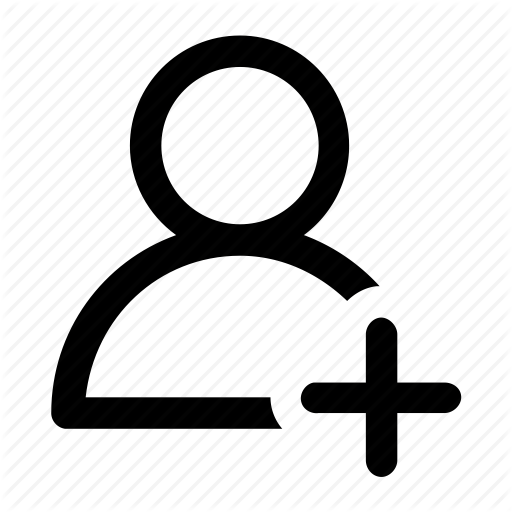
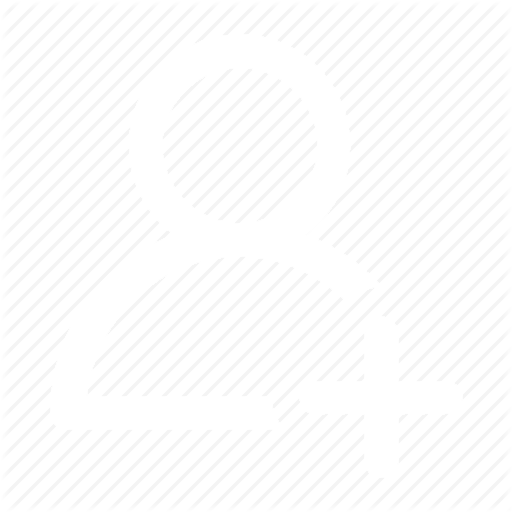
icones brancos

Changed region(s): [[0.0938, 0.0625, 0.75, 0.8438], [0.5625, 0.625, 0.9062, 0.9375]]

diff --git a/src/pages/MenuDape.js b/src/pages/MenuDape.js
@@ -21,13 +21,13 @@ return (
         <View style={styles.colunasMenu}>            
         <TouchableOpacity style={styles.colunasBotao}>
             <TouchableOpacity onPress={() => this.props.navigation.navigate('Formulario400Hz')} style={styles.menuButton} >
-            <Image backgroundColor='white' style={{ width: '50%', height: '50%' }} source={require('../imagens/dape.png')}/>
+            <Image style={{ width: '50%', height: '50%' }} source={require('../imagens/dape.png')}/>
             <Text/>
             <Text style={styles.buttonText}>400 Hz</Text>
             </TouchableOpacity>
 
             <TouchableOpacity onPress={() => this.props.navigation.navigate('FormularioAmbulift')} style={styles.menuButton} >
-            <Image backgroundColor='white' style={{ width: '50%', height: '50%' }} source={require('../imagens/duvida.png')}/>
+            <Image style={{ width: '50%', height: '50%' }} source={require('../imagens/duvida.png')}/>
             <Text/>
             <Text style={styles.buttonText}>Ambulift</Text>                
             </TouchableOpacity>
@@ -36,19 +36,19 @@ return (
         <View style={styles.colunasMenu}>            
         <TouchableOpacity style={styles.colunasBotao}>                
             <TouchableOpacity onPress={() => this.props.navigation.navigate('FormularioTripulanteDesembarque')} style={styles.menuButton} >
-            <Image backgroundColor='white' style={{ width: '50%', height: '50%' }} source={require('../imagens/duvida.png')}/>
+            <Image style={{ width: '50%', height: '50%' }} source={require('../imagens/duvida.png')}/>
             <Text style={styles.buttonText}>Tripulante e/ou Desembarque Híbrido</Text>
             </TouchableOpacity>
             
             <TouchableOpacity onPress={() => this.props.navigation.navigate('FormularioLavagemTecnica')} style={styles.menuButton} >
-            <Image backgroundColor='white' style={{ width: '50%', height: '50%' }} source={require('../imagens/duvida.png')}/>            
+            <Image style={{ width: '50%', height: '50%' }} source={require('../imagens/duvida.png')}/>            
             <Text/>
             <Text style={styles.buttonText}>Lavagem Técnica</Text>                            
             </TouchableOpacity>
         </TouchableOpacity>
         </View>
     </View>
-    <Text style={{color: 'black'}}> Versão 1.0 </Text>
+    <Text style={{color: 'white'}}> Versão 1.0 </Text>
     </View>
     
 );

diff --git a/src/pages/Menu.js b/src/pages/Menu.js
@@ -39,12 +39,12 @@ export default class Menu extends React.Component {
           <View style={styles.colunasMenu}>
             <TouchableOpacity style={styles.colunasBotao}>
               <TouchableOpacity onPress={() => this.props.navigation.navigate('AbrigoRampa')} style={styles.menuButton} >
-                <Image backgroundColor='white' style={{ width: '60%', height: '55%' }} source={require('../imagens/shelter.png')}/>
+                <Image style={{ width: '60%', height: '55%' }} source={require('../imagens/shelter.png')}/>
                 <Text style={styles.buttonText}>Abrigo de Rampa</Text>
               </TouchableOpacity>
 
               <TouchableOpacity onPress={() => this.props.navigation.navigate('EquipVeiculo')} style={styles.menuButton} >
-              <Image backgroundColor='white' style={{ width: '60%', height: '55%' }} source={require('../imagens/vehicle.png')}/>
+              <Image style={{ width: '60%', height: '55%' }} source={require('../imagens/vehicle.png')}/>
                 <Text style={styles.buttonText}>Equipamentos e Veículos</Text>                
               </TouchableOpacity>
             </TouchableOpacity>
@@ -52,12 +52,12 @@ export default class Menu extends React.Component {
           <View style={styles.colunasMenu}>            
             <TouchableOpacity style={styles.colunasBotao}>
               <TouchableOpacity onPress={() => this.props.navigation.navigate('CadastroAeronave')} style={styles.menuButton} >
-              <Image backgroundColor='white' style={{ width: '60%', height: '55%' }} source={require('../imagens/airplane.png')}/>
+              <Image style={{ width: '60%', height: '55%' }} source={require('../imagens/airplane.png')}/>
                 <Text style={styles.buttonText}>Cadastro de Aeronave</Text>
               </TouchableOpacity>
 
               <TouchableOpacity onPress={() => this.props.navigation.navigate('MenuDape')} style={styles.menuButton} >
-              <Image backgroundColor='white' style={{ width: '60%', height: '55%'}} source={require('../imagens/dape.png')}/>
+              <Image style={{ width: '60%', height: '55%'}} source={require('../imagens/dape.png')}/>
                 <Text/>
                 <Text style={styles.buttonText}>Dape</Text>                
               </TouchableOpacity>

diff --git a/src/pages/FormularioCadastroAeronave.js b/src/pages/FormularioCadastroAeronave.js
@@ -34,7 +34,7 @@ export default class CadastroAeronave extends React.Component{
                         value={this.state.MatriculaRegistration}
                         />
                         <View style={{flexDirection: 'row'}}>
-                            <Text style={styles.text}>Modelo/model:</Text><Text style={styles.textObrig}>*</Text>
+                            <Text style={styles.text}>Modelo/model:</Text>
                         </View>
                         <TextInput
                         style={styles.inputBox}
@@ -78,11 +78,11 @@ export default class CadastroAeronave extends React.Component{
                         placeholder="Telefone"
                         value={this.state.Telefone}
                         />
-                        <Text style={styles.text}>Email:</Text>
+                        <Text style={styles.text}>E-mail:</Text>
                         <TextInput
                         style={styles.inputBox}
                         onChangeText={(text) => this.setState({Email: text})}
-                        placeholder="Email"
+                        placeholder="E-mail"
                         value={this.state.Email}
                         />
                         <Text style={styles.text}>Voo de Instrução ou Experiência?</Text>
@@ -93,6 +93,14 @@ export default class CadastroAeronave extends React.Component{
                         value={this.state.VOO_IntrucaoExperiencia}
                         />
 
+                        <Text style={styles.Titulo}>Dados do Operador da Aeronave</Text>
+                        <Text style={styles.text}></Text>
+                        <TextInput
+                        style={styles.inputBox}
+                        onChangeText={(text) => this.setState({VOO_IntrucaoExperiencia: text})}
+                        placeholder="Instrução ou Experiência "
+                        value={this.state.VOO_IntrucaoExperiencia}
+                        />
                         <TouchableOpacity onPress={()=> alert('em Desenvolvimento')} style={styles.FormularioButton} >
                             <Text style={styles.buttonText}>Enviar Formulário</Text>
                         </TouchableOpacity>
